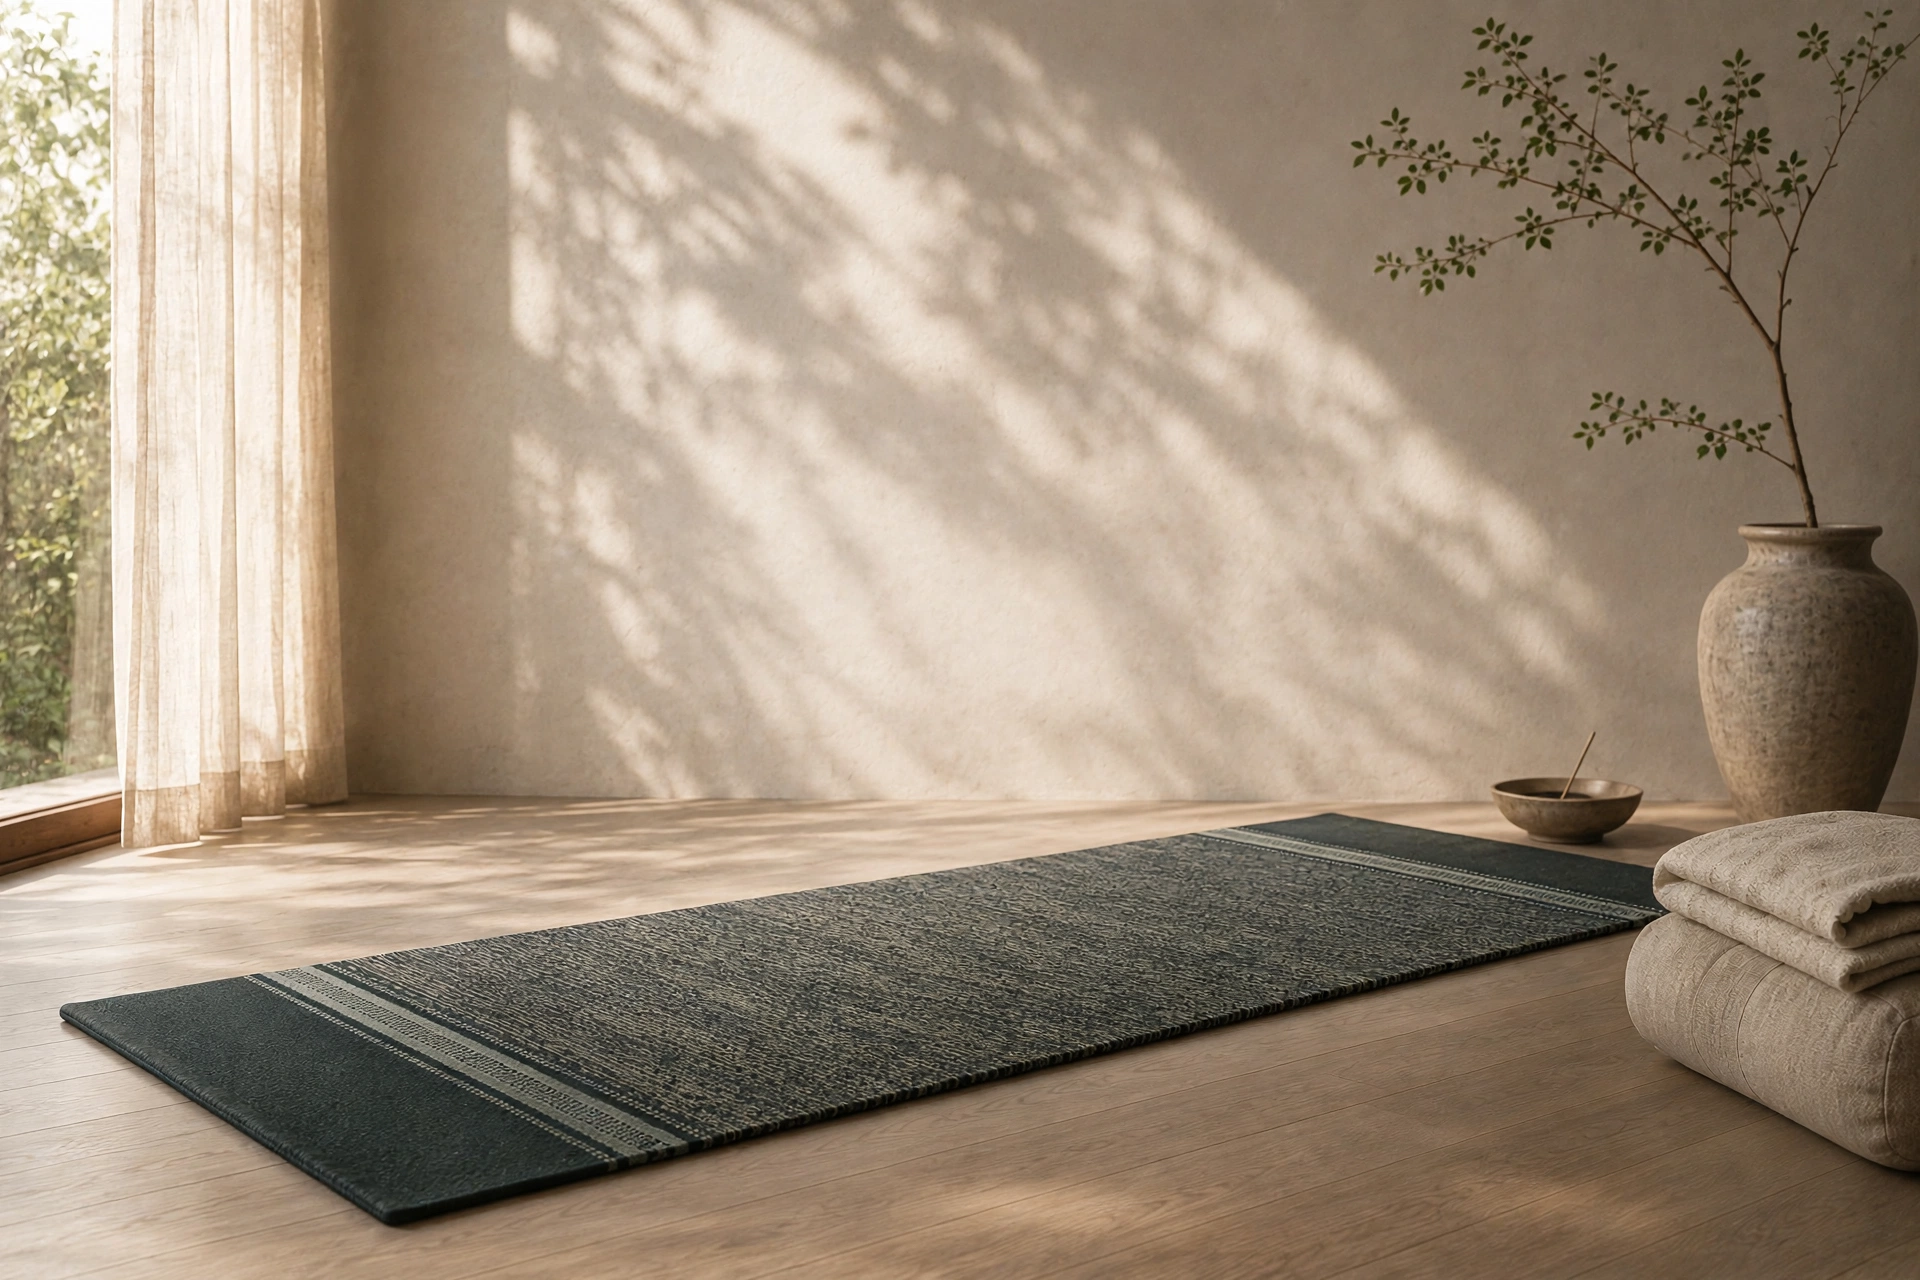
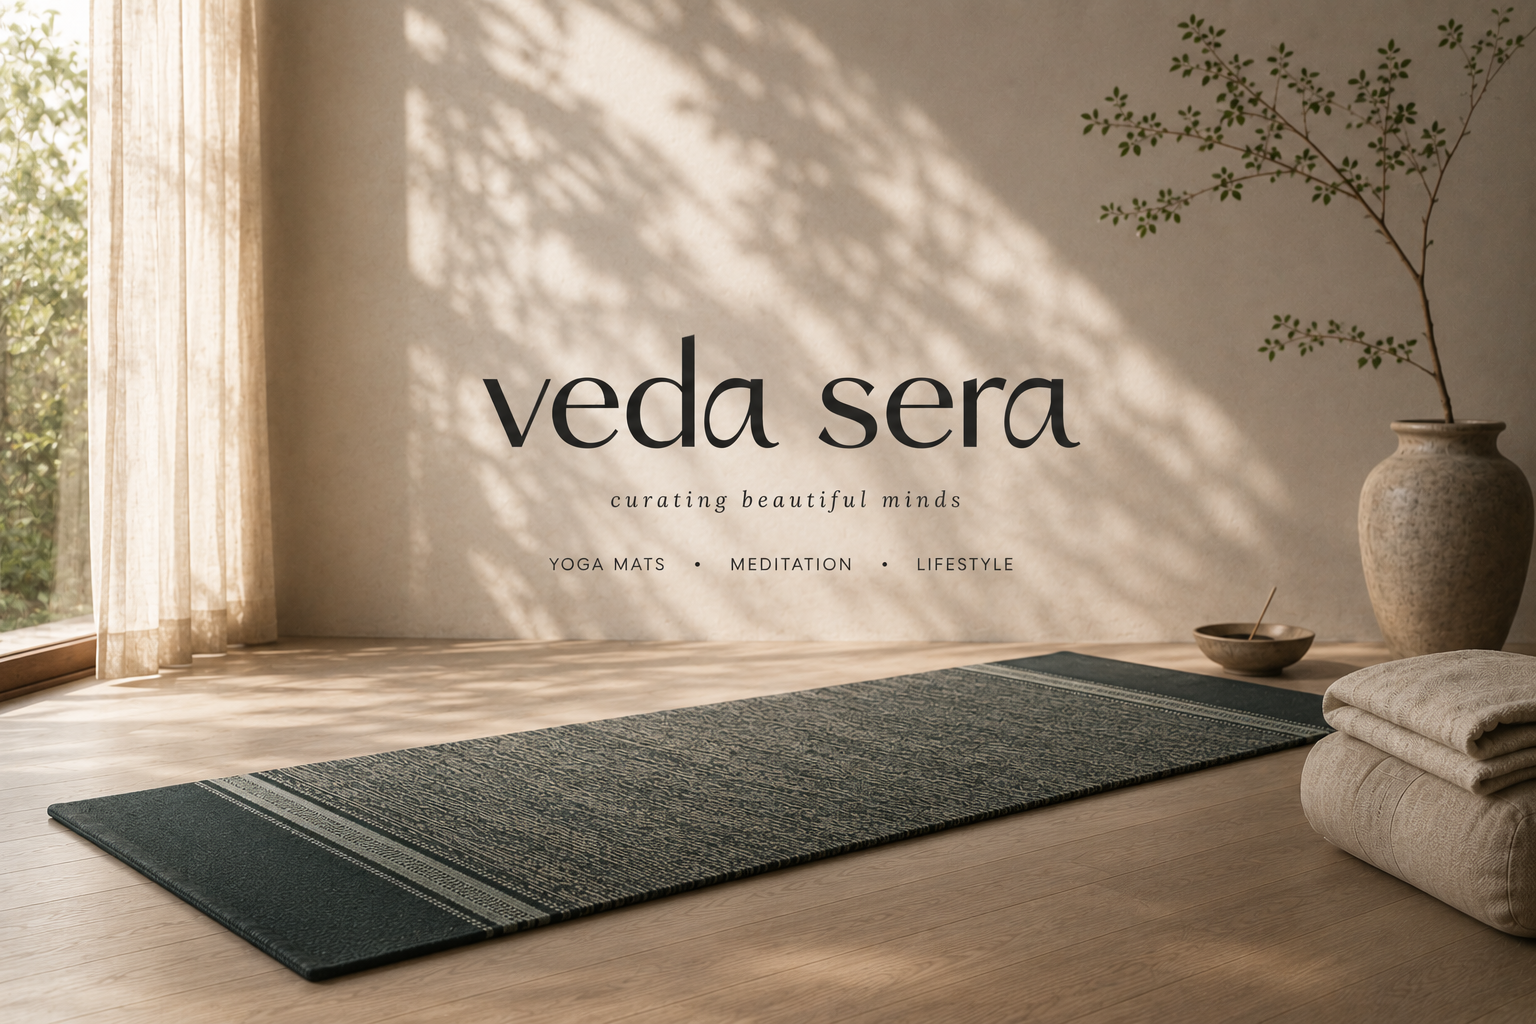
Hero: restore original image text, remove HTML overlay

diff --git a/index.html b/index.html
@@ -27,13 +27,7 @@
 
   <!-- HERO -->
   <section class="hero">
-    <div class="hero-media"><img src="assets/hero.png" alt="VEDA SERA — handwoven cotton yoga mat"></div>
-    <div class="hero-shade"></div>
-    <div class="hero-copy">
-      <p class="eyebrow light" data-reveal>VEDA SERA — SEOUL</p>
-      <h1 data-reveal>Curating<br>beautiful minds.</h1>
-      <p class="hero-sub" data-reveal>Handwoven cotton yoga mats.<br>Conceived in Seoul, woven in India.</p>
-    </div>
+    <div class="hero-media"><img src="assets/hero.png?v=2" alt="VEDA SERA — curating beautiful minds"></div>
     <p class="scroll-cue" aria-hidden="true">Scroll</p>
   </section>
 
